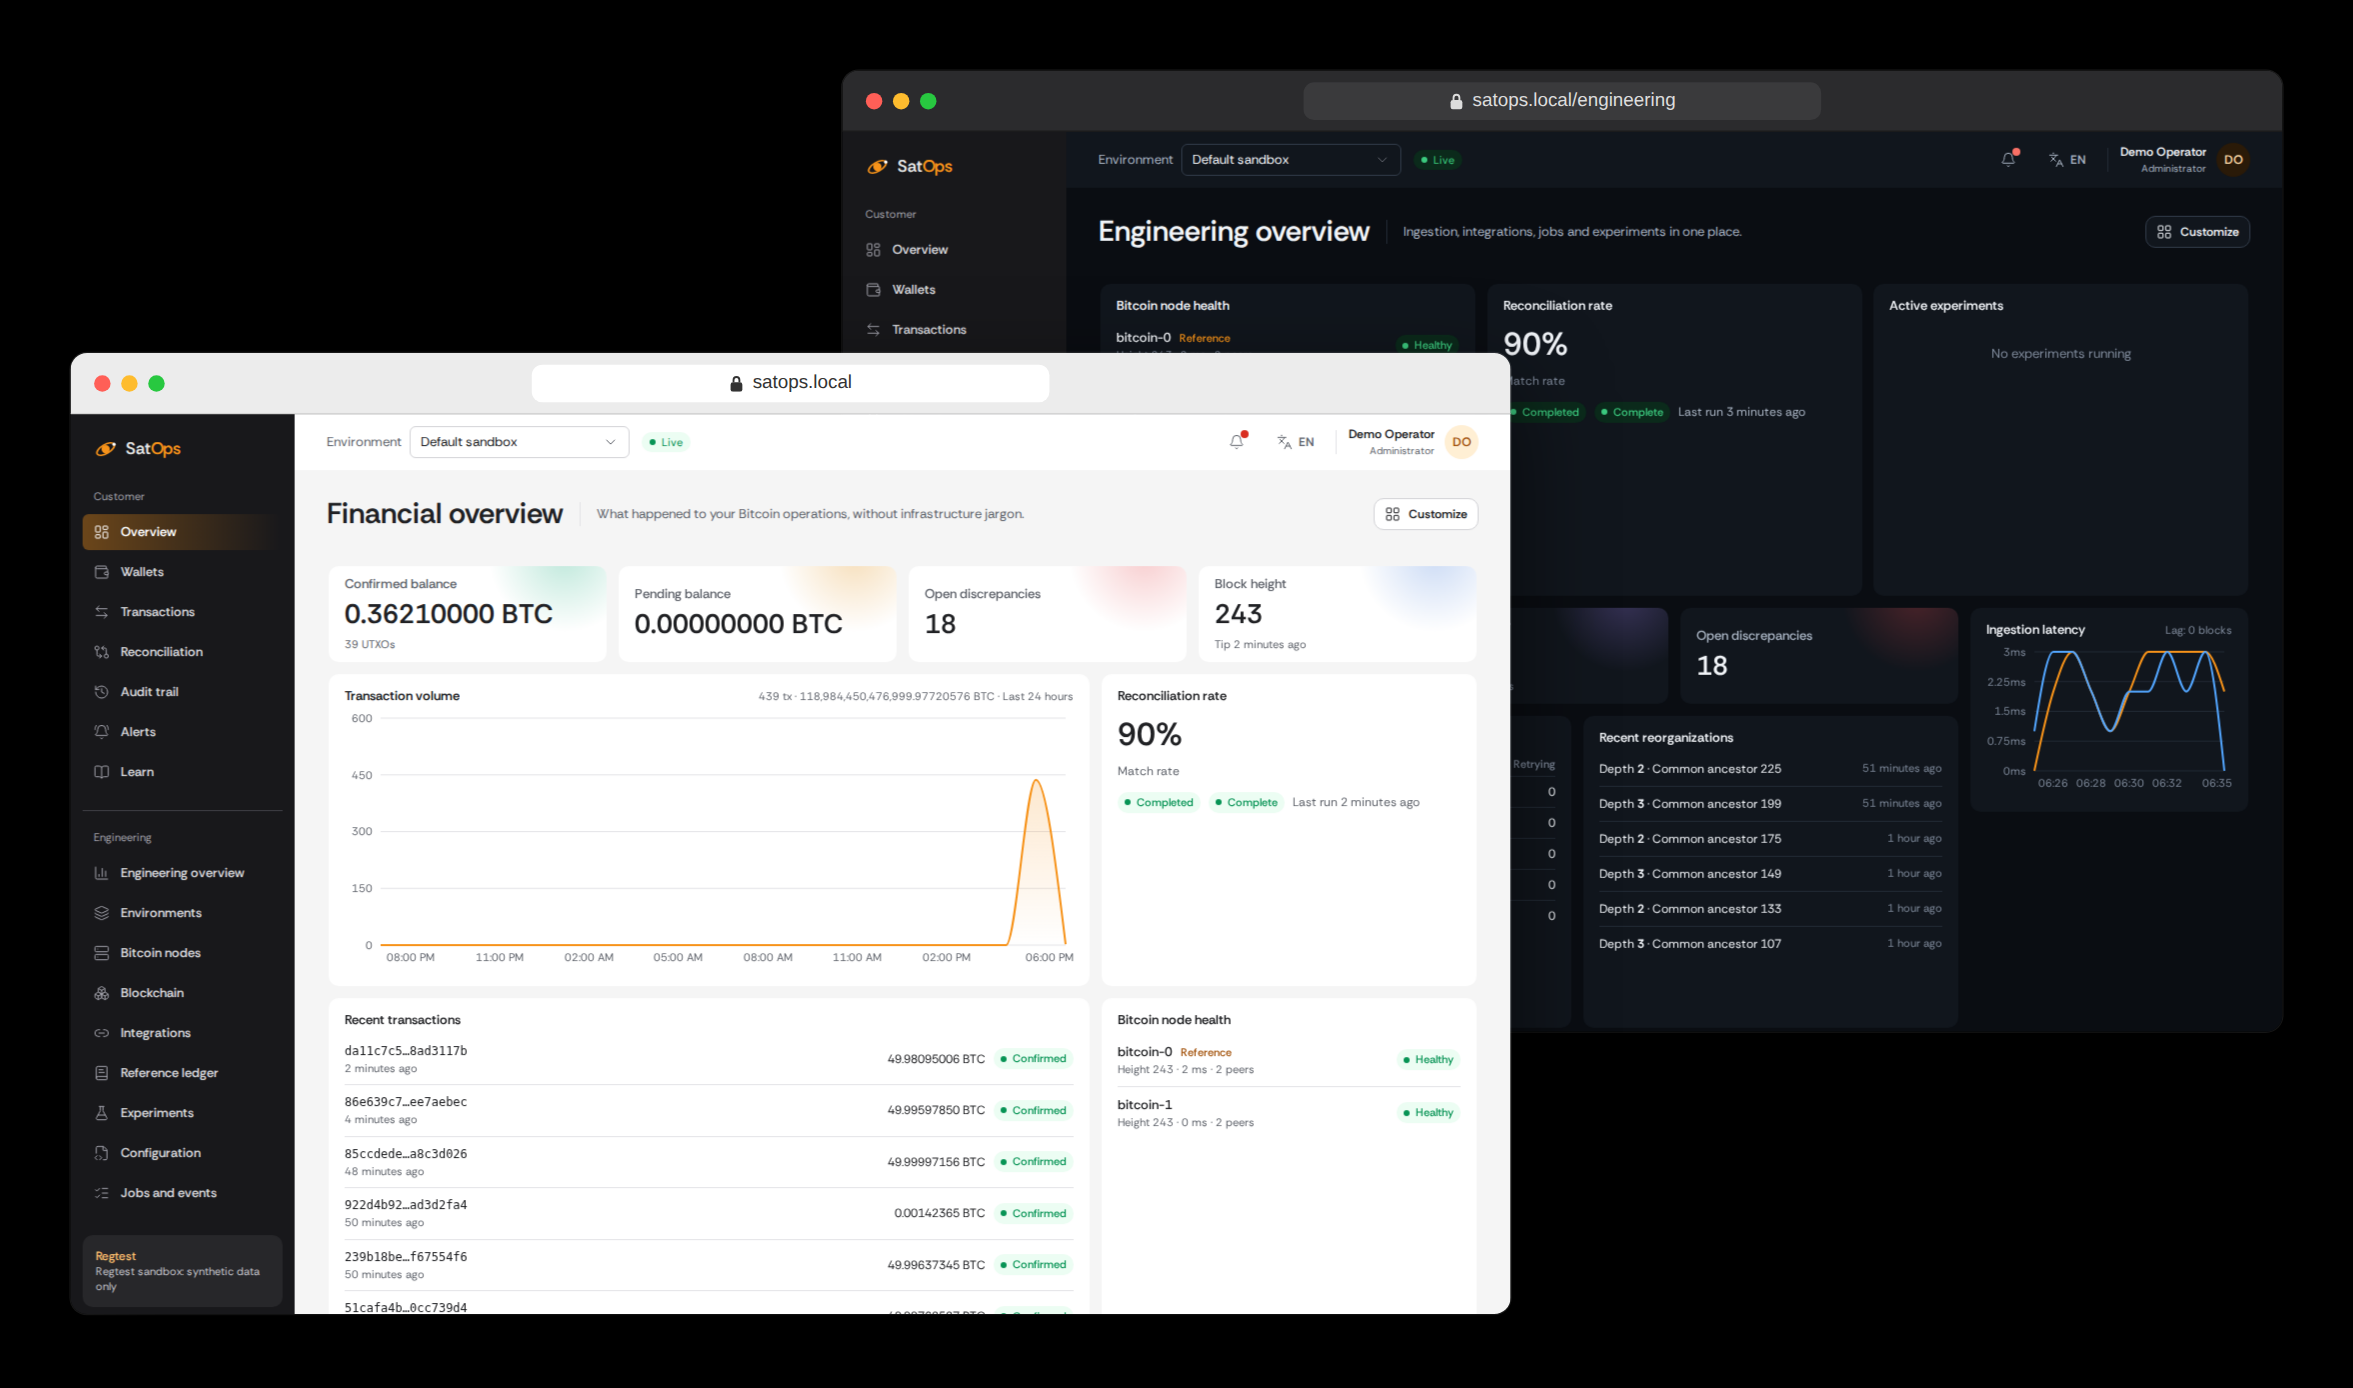
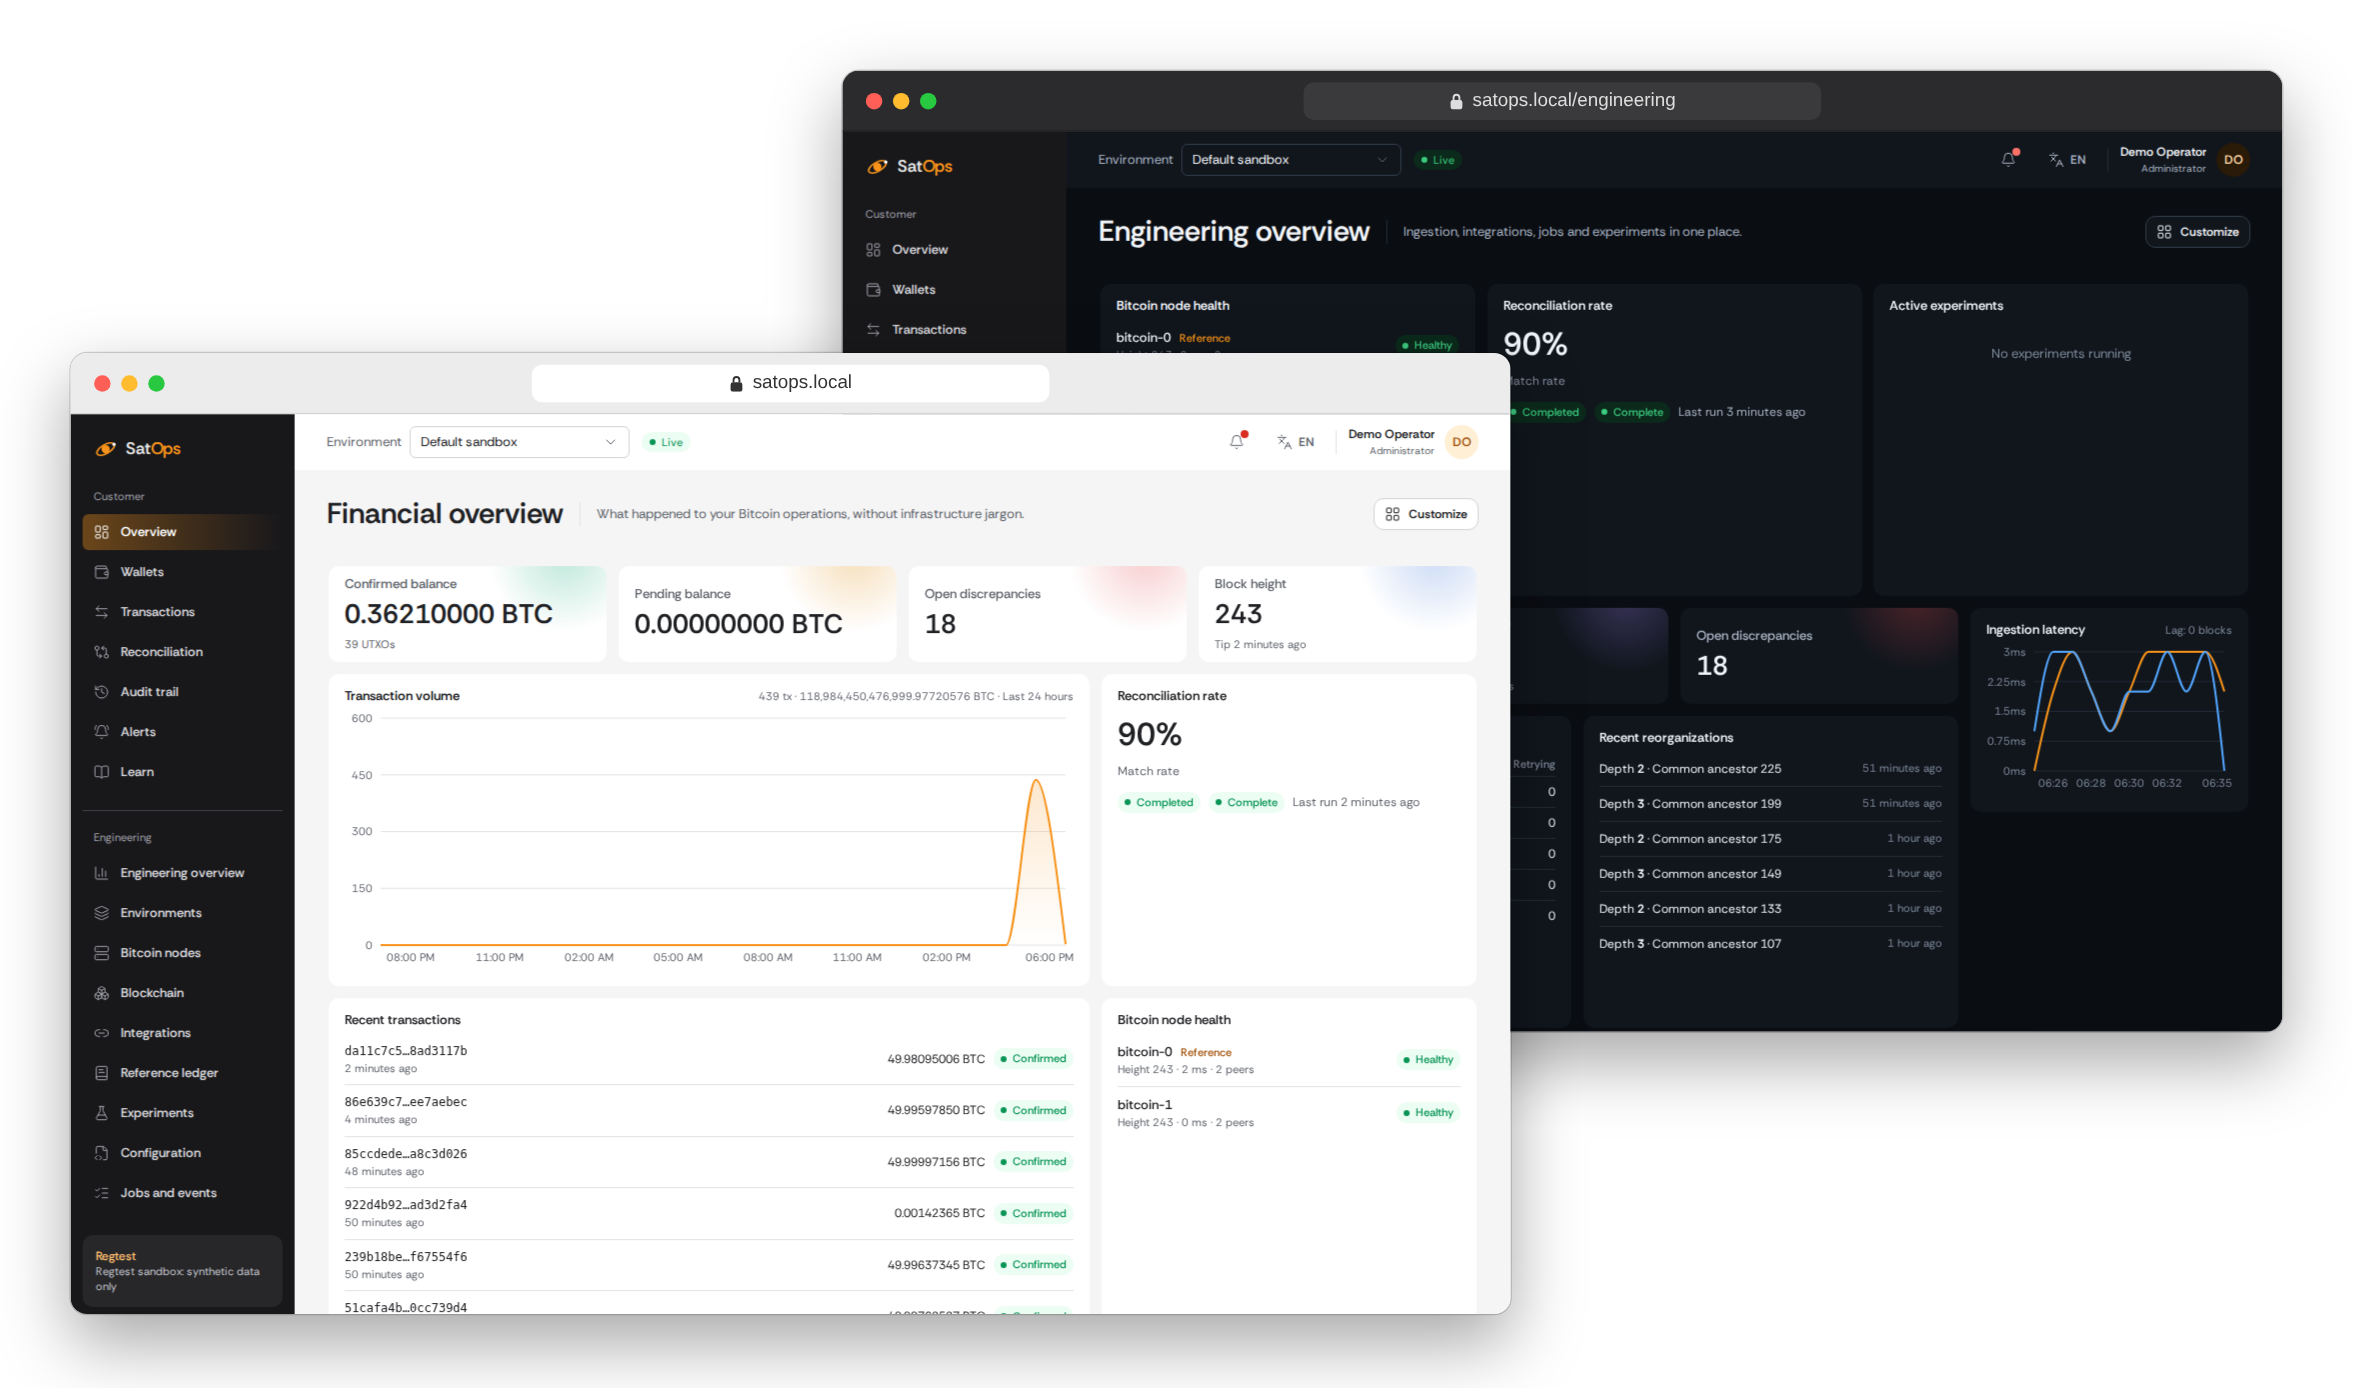
docs: render the README showcase on a transparent background

Changed region(s): [[0.0, 0.0, 1.0, 1.0]]

diff --git a/apps/web/tests/screenshots/readme.spec.ts b/apps/web/tests/screenshots/readme.spec.ts
@@ -29,9 +29,9 @@ function macWindow(file: string, url: string, theme: "light" | "dark", left: num
   return `<div class="win ${theme}" style="left:${left}px;top:${top}px"><div class="bar"><div class="dots"><i class="r"></i><i class="y"></i><i class="g"></i></div><div class="url"><svg width="12" height="14" viewBox="0 0 12 14"><rect x="1" y="6" width="10" height="8" rx="2" fill="currentColor"/><path d="M3.5 6V4a2.5 2.5 0 0 1 5 0v2" stroke="currentColor" stroke-width="1.6" fill="none"/></svg>${url}</div></div><img src="${src}"></div>`;
 }
 
-const SHOWCASE_CSS = `*{box-sizing:border-box;margin:0}html,body{background:#000}
+const SHOWCASE_CSS = `*{box-sizing:border-box;margin:0}html,body{background:transparent}
 body{width:2000px;height:1180px;position:relative;font-family:-apple-system,"Helvetica Neue",Arial,sans-serif;overflow:hidden}
-.win{position:absolute;border-radius:14px;overflow:hidden;box-shadow:0 30px 80px rgba(0,0,0,.6),0 0 0 1px rgba(255,255,255,.12)}
+.win{position:absolute;border-radius:14px;overflow:hidden;box-shadow:0 24px 60px rgba(0,0,0,.35),0 0 0 1px rgba(0,0,0,.18)}
 .bar{height:52px;display:flex;align-items:center;padding:0 20px;position:relative}
 .dots{display:flex;gap:9px}.dots i{width:14px;height:14px;border-radius:50%;display:block}
 .r{background:#ff5f57}.y{background:#febc2e}.g{background:#28c840}
@@ -46,7 +46,7 @@ async function showcase(browser: Browser) {
   await page.setContent(
     `<!doctype html><html><head><style>${SHOWCASE_CSS}</style></head><body>${macWindow("engineering-overview-dark", "satops.local/engineering", "dark", 716, 60)}${macWindow("customer-overview", "satops.local", "light", 60, 300)}</body></html>`,
   );
-  await page.screenshot({ path: `${OUT}/showcase.png` });
+  await page.screenshot({ path: `${OUT}/showcase.png`, omitBackground: true });
   await context.close();
 }
 
